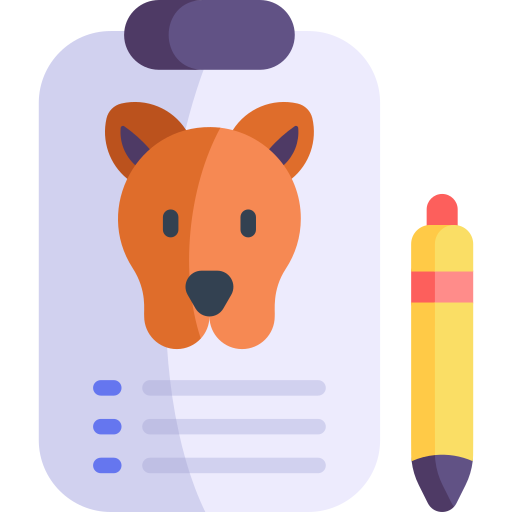
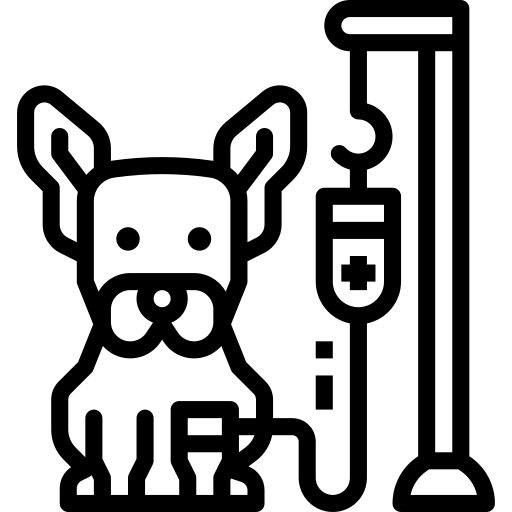
ajustes hospitalizacion

diff --git a/js/hospitalizacion.js b/js/hospitalizacion.js
@@ -35,6 +35,8 @@ const PARAMETROS_MONITOREO = [
 document.addEventListener("DOMContentLoaded", async () => {
     await cargarListadoHospitalizaciones();
     await cargarProductosParaAutocompletar();
+    await cargarVeterinariosSelect();
+    await cargarAuxiliaresSelect();
     inicializarEventListeners();
 });
 
@@ -111,7 +113,8 @@ function inicializarEventListeners() {
 
     // Autoguardado para campos de texto
     document.querySelectorAll('.campo-autoguardado').forEach(campo => {
-        campo.addEventListener('input', () => {
+        const evento = campo.tagName === 'SELECT' ? 'change' : 'input';
+        campo.addEventListener(evento, () => {
             const nombreCampo = campo.dataset.campo;
             autoguardarCampo(nombreCampo, campo.value);
         });
@@ -437,6 +440,7 @@ async function cargarFichaHospitalizacion(hospitalizacionId) {
     document.getElementById('campoHidratacion').value = data.h_hidratacion || '';
     document.getElementById('campoMedicamentosAdicionales').value = data.h_medicamentos_adicionales || '';
     document.getElementById('campoMedicoTratante').value = data.h_medico_tratante || '';
+    document.getElementById('campoAuxiliarTratante').value = data.h_auxiliar_tratante || '';
     document.getElementById('campoObservaciones').value = data.h_observaciones || '';
 
     // Cargar datos relacionados
@@ -648,6 +652,60 @@ async function cargarProductosParaAutocompletar() {
     if (!error && data) {
         productosCache = data;
     }
+}
+
+async function cargarVeterinariosSelect() {
+    // Cargar veterinarios con rol 1 (Médico veterinario) y 2 (Veterinario jefe)
+    const { data, error } = await supabaseClient
+        .from("personal_vet")
+        .select(`
+            pv_documento, pv_nombre, pv_apellido,
+            rol_vet!inner (rv_rl_id_rol)
+        `)
+        .in("rol_vet.rv_rl_id_rol", [1, 2])
+        .order("pv_nombre");
+
+    const select = document.getElementById('campoMedicoTratante');
+    if (!select) return;
+
+    select.innerHTML = '<option value="">Seleccione...</option>';
+
+    if (error || !data) return;
+
+    data.forEach(vet => {
+        const nombre = `${vet.pv_nombre || ''} ${vet.pv_apellido || ''}`.trim();
+        const opt = document.createElement('option');
+        opt.value = nombre;
+        opt.textContent = nombre;
+        select.appendChild(opt);
+    });
+}
+
+async function cargarAuxiliaresSelect() {
+    // Cargar auxiliares con rol 3 (Auxiliar veterinario) y 4 (Practicante veterinario)
+    const { data, error } = await supabaseClient
+        .from("personal_vet")
+        .select(`
+            pv_documento, pv_nombre, pv_apellido,
+            rol_vet!inner (rv_rl_id_rol)
+        `)
+        .in("rol_vet.rv_rl_id_rol", [3, 4])
+        .order("pv_nombre");
+
+    const select = document.getElementById('campoAuxiliarTratante');
+    if (!select) return;
+
+    select.innerHTML = '<option value="">Seleccione...</option>';
+
+    if (error || !data) return;
+
+    data.forEach(aux => {
+        const nombre = `${aux.pv_nombre || ''} ${aux.pv_apellido || ''}`.trim();
+        const opt = document.createElement('option');
+        opt.value = nombre;
+        opt.textContent = nombre;
+        select.appendChild(opt);
+    });
 }
 
 function renderizarTablaMedicamentos() {

diff --git a/pages/hospitalizacion.html b/pages/hospitalizacion.html
@@ -236,8 +236,17 @@
                                     <div class="col-md-6">
                                         <div class="form-group">
                                             <label>Médico Tratante</label>
-                                            <input type="text" class="form-control campo-autoguardado" id="campoMedicoTratante"
+                                            <select class="form-control campo-autoguardado" id="campoMedicoTratante"
                                                 data-campo="h_medico_tratante">
+                                                <option value="">Seleccione...</option>
+                                            </select>
+                                        </div>
+                                        <div class="form-group">
+                                            <label>Auxiliar Tratante</label>
+                                            <select class="form-control campo-autoguardado" id="campoAuxiliarTratante"
+                                                data-campo="h_auxiliar_tratante">
+                                                <option value="">Seleccione...</option>
+                                            </select>
                                         </div>
                                     </div>
                                     <div class="col-md-6">
